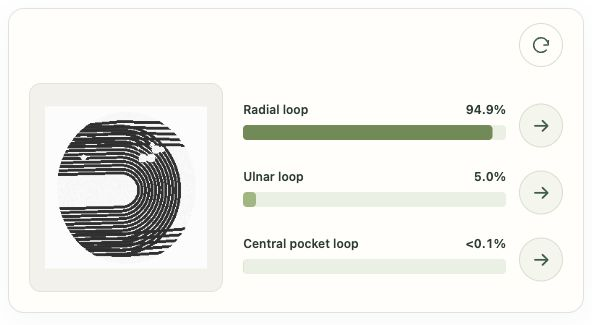
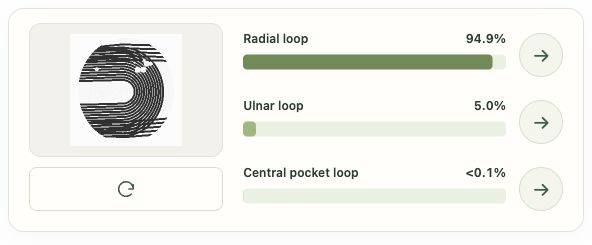
style: align image and chart with full-width restart below preview

diff --git a/widget.css b/widget.css
@@ -31,17 +31,16 @@ button, a, label { -webkit-tap-highlight-color: transparent; }
 .spinner { width: 32px; height: 32px; border: 3px solid #dfe8d7; border-top-color: var(--accent); border-radius: 50%; animation: spin 800ms linear infinite; }
 @keyframes spin { to { transform: rotate(360deg); } }
 
-.result-panel { padding: 16px 24px 24px; }
-.result-actions { display: flex; align-items: center; justify-content: space-between; gap: 12px; margin-bottom: 16px; }
-.reset-button { display: inline-flex; align-items: center; justify-content: center; flex-shrink: 0; width: 44px; height: 44px; margin-left: auto; padding: 10px; border: 1px solid #d7dfcd; border-radius: 50%; color: var(--accent); background: transparent; cursor: pointer; }
+.result-panel { padding: 24px; }
+.reset-button { display: inline-flex; align-items: center; justify-content: center; width: 100%; height: 44px; padding: 10px; border: 1px solid #d7dfcd; border-radius: 8px; color: var(--accent); background: transparent; cursor: pointer; }
 .reset-button:hover { border-color: var(--accent); background: #edf2e7; }
 .reset-button svg { width: 22px; height: 22px; fill: none; stroke: currentColor; stroke-width: 1.7; stroke-linecap: round; stroke-linejoin: round; }
-.result-body { display: grid; grid-template-columns: minmax(0, 0.85fr) minmax(0, 1.65fr); align-items: center; gap: 30px; }
-.fingerprint-figure { min-width: 0; margin: 0; }
-.fingerprint-frame { display: flex; align-items: center; justify-content: center; aspect-ratio: 0.93; width: 100%; overflow: hidden; padding: 15px; border: 1px solid var(--line); border-radius: 12px; background: #f2f1ea; }
-.preview-image { display: block; width: 100%; height: 100%; max-height: 300px; object-fit: contain; border-radius: 4px; }
-.prediction-chart { min-width: 0; }
-.result-list { display: grid; gap: 20px; margin: 0; padding: 0; list-style: none; }
+.result-body { display: grid; grid-template-columns: minmax(0, 0.85fr) minmax(0, 1.65fr); align-items: stretch; gap: 30px; }
+.fingerprint-figure { display: grid; grid-template-rows: minmax(100px, 1fr) 44px; gap: 10px; min-width: 0; margin: 0; }
+.fingerprint-frame { position: relative; min-height: 100px; width: 100%; overflow: hidden; border: 1px solid var(--line); border-radius: 12px; background: #f2f1ea; }
+.preview-image { position: absolute; inset: 10px; display: block; width: calc(100% - 20px); height: calc(100% - 20px); object-fit: contain; border-radius: 4px; }
+.prediction-chart { display: flex; flex-direction: column; min-width: 0; }
+.result-list { display: grid; flex: 1; align-content: space-between; gap: 20px; margin: 0; padding: 0; list-style: none; }
 .prediction-row { display: grid; grid-template-columns: minmax(0, 1fr) 44px; align-items: center; gap: 13px; }
 .prediction-info { min-width: 0; }
 .prediction-heading { display: flex; justify-content: space-between; align-items: baseline; gap: 10px; margin-bottom: 7px; font-size: 0.8rem; line-height: 1.4; }
@@ -54,7 +53,7 @@ button, a, label { -webkit-tap-highlight-color: transparent; }
 .prediction-link { display: inline-flex; align-items: center; justify-content: center; min-width: 44px; min-height: 44px; margin-top: 10px; border: 1px solid #d7dfcd; border-radius: 50%; color: var(--accent); background: #f3f6ec; font-size: 1.25rem; line-height: 1; text-decoration: none; transition: background-color 140ms ease, border-color 140ms ease; }
 .prediction-link:hover { border-color: var(--accent); background: #e2ecd6; }
 .prediction-link.is-unavailable { color: #929a8b; opacity: 0.55; cursor: not-allowed; }
-.uncertainty-message { margin: 0; padding: 7px 10px; border: 1px solid #e5d7ae; border-radius: 8px; color: #6d5927; background: #fbf6e7; font-size: 0.75rem; line-height: 1.6; }
+.uncertainty-message { width: fit-content; max-width: 100%; margin: 0 0 16px; padding: 7px 10px; border: 1px solid #e5d7ae; border-radius: 8px; color: #6d5927; background: #fbf6e7; font-size: 0.75rem; line-height: 1.6; }
 .error-panel button { display: inline-flex; min-height: 44px; align-items: center; justify-content: center; gap: 13px; border: 1px solid #d8ddcf; border-radius: 8px; padding: 10px 14px; color: var(--ink); background: transparent; font-size: 0.73rem; font-weight: 650; line-height: 1.3; text-decoration: none; cursor: pointer; }
 .error-panel button:hover { background: #edf2e7; }
 .error-panel { display: grid; gap: 10px; padding: 16px 24px; border-top: 1px solid #eed5cd; color: var(--danger); background: #fff6f1; font-size: 0.8rem; line-height: 1.6; text-align: center; }
@@ -77,9 +76,7 @@ noscript { display: block; padding: 10px; color: var(--danger); font-size: 0.8re
   .upload-formats { max-width: 240px; }
   .result-panel { padding: 12px 18px 20px; }
   .result-body { grid-template-columns: minmax(0, 1fr); gap: 25px; }
-  .fingerprint-figure { width: min(100%, 240px); justify-self: center; }
-  .fingerprint-frame { aspect-ratio: 1.15; }
-  .preview-image { max-height: 200px; }
+  .fingerprint-figure { grid-template-rows: 160px 44px; width: min(100%, 240px); justify-self: center; }
   .result-list { gap: 15px; }
   .prediction-heading { font-size: 0.8rem; }
 }

diff --git a/index.html b/index.html
@@ -33,17 +33,15 @@
 
         <section id="result-panel" class="result-panel" aria-labelledby="result-label" aria-live="polite" hidden>
           <h1 id="result-label" class="sr-only">Your closest matches</h1>
-          <div class="result-actions">
-            <p id="uncertainty-message" class="uncertainty-message" hidden></p>
-            <button id="another-image" class="reset-button" type="button" aria-label="Try another image" title="Try another image" hidden>
-              <svg viewBox="0 0 24 24" aria-hidden="true"><path d="M20 7v5h-5M20 12a8 8 0 1 0-2.3 5.7"></path></svg>
-            </button>
-          </div>
+          <p id="uncertainty-message" class="uncertainty-message" hidden></p>
           <div class="result-body">
             <figure class="fingerprint-figure">
               <div class="fingerprint-frame">
                 <img id="preview-image" class="preview-image" alt="Your uploaded fingerprint">
               </div>
+              <button id="another-image" class="reset-button" type="button" aria-label="Try another image" title="Try another image" hidden>
+                <svg viewBox="0 0 24 24" aria-hidden="true"><path d="M20 7v5h-5M20 12a8 8 0 1 0-2.3 5.7"></path></svg>
+              </button>
             </figure>
             <div class="prediction-chart">
               <h2 id="chart-title" class="sr-only">Top 3 predictions</h2>

diff --git a/preview/REVIEW.md b/preview/REVIEW.md
@@ -38,7 +38,8 @@ was changed or published. Published Wix referrer/navigation and final iframe
 height still require verification in the intended site and browsers.
 
 The widget uses a minimal layout: upload button and formats, then the image,
-labelled probability bars, category arrows and an icon-only reset at the top right.
+labelled probability bars and category arrows. An icon-only reset spans the image's
+width beneath the shorter preview; the two columns align in height on desktop.
 Unidentified results show a compact status above the chart. Headings and navigation
 hints remain available to screen readers without adding visible copy.
 
